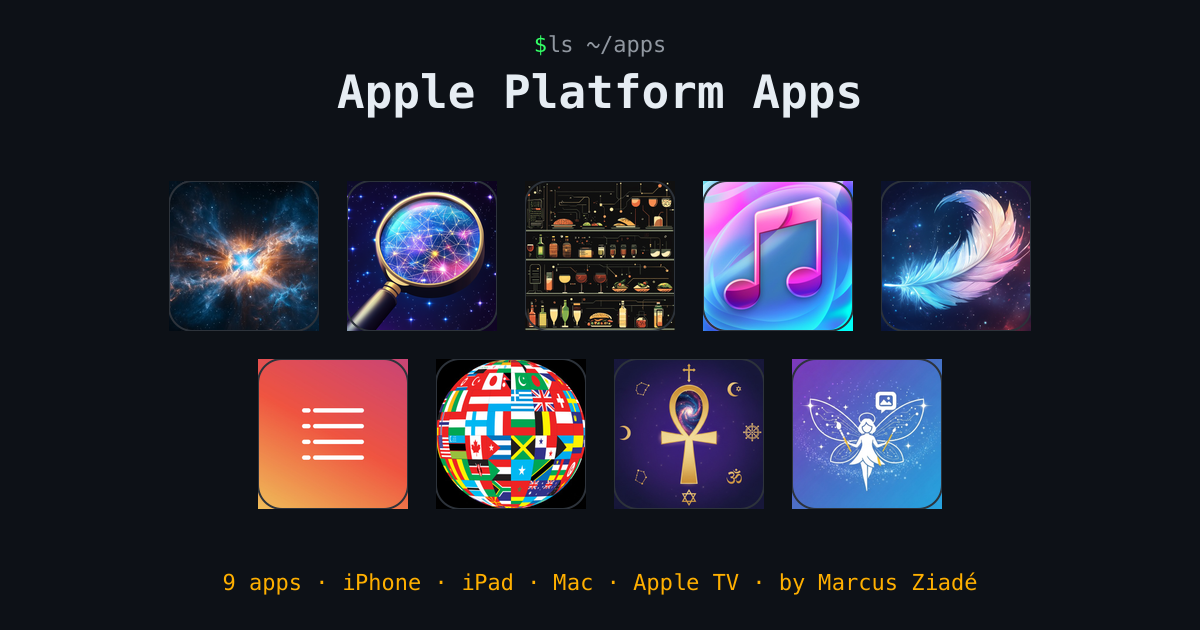
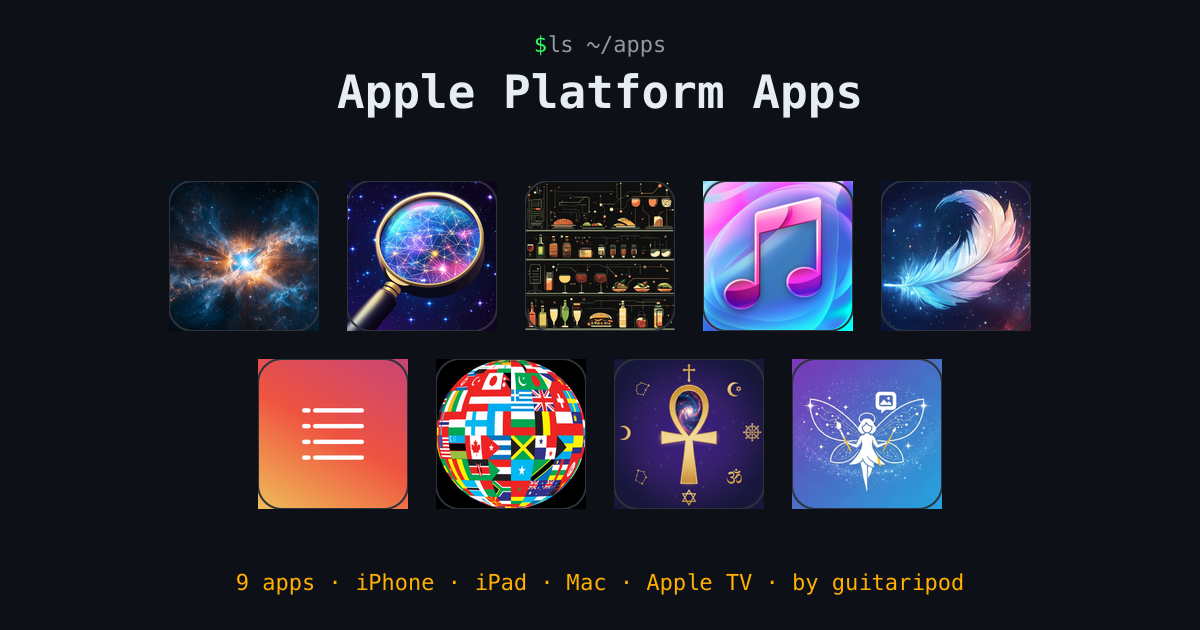
use username instead of real name across all public surfaces

Changed region(s): [[0.185, 0.9048, 0.8325, 0.9349]]

diff --git a/scripts/generate-main-og-image.js b/scripts/generate-main-og-image.js
@@ -61,7 +61,7 @@ ctx.strokeRect(termX, termY, termW, 44);
 ctx.fillStyle = MUTED;
 ctx.font = `16px ${MONO}`;
 ctx.textAlign = 'center';
-ctx.fillText('marcus@midgar: ~', termX + termW / 2, termY + 28);
+ctx.fillText('guitaripod@midgar: ~', termX + termW / 2, termY + 28);
 ctx.textAlign = 'left';
 
 let lineY = termY + 100;
@@ -90,7 +90,7 @@ ctx.fillRect(lineX + shipsWidth + 18, lineY - 52, 28, 60);
 lineY += 66;
 ctx.font = `22px ${MONO}`;
 ctx.fillStyle = MUTED;
-ctx.fillText('Marcus Ziadé — iOS · backend · AI · open source', lineX, lineY);
+ctx.fillText('guitaripod — iOS · backend · AI · open source', lineX, lineY);
 
 lineY += 42;
 ctx.fillStyle = AMBER;

diff --git a/scripts/generate-apps-og-grid.js b/scripts/generate-apps-og-grid.js
@@ -113,7 +113,7 @@ async function generateOGGrid(sharp) {
       <style>
         .stats { fill: #ffb000; font-size: 22px; font-family: ${mono}; }
       </style>
-      <text x="${ogWidth / 2}" y="50" text-anchor="middle" class="stats">${apps.length} apps · iPhone · iPad · Mac · Apple TV · by Marcus Ziadé</text>
+      <text x="${ogWidth / 2}" y="50" text-anchor="middle" class="stats">${apps.length} apps · iPhone · iPad · Mac · Apple TV · by guitaripod</text>
     </svg>`
   );
 

diff --git a/src/consts.ts b/src/consts.ts
@@ -1,3 +1,3 @@
 export const SITE_TITLE = 'Midgar Corp';
 export const SITE_DESCRIPTION =
-  'Marcus Ziadé — independent engineer shipping iOS, backend, and AI. Apps, CLI tools, open source, and writing on the craft.';
+  'guitaripod — independent engineer shipping iOS, backend, and AI. Apps, CLI tools, open source, and writing on the craft.';
